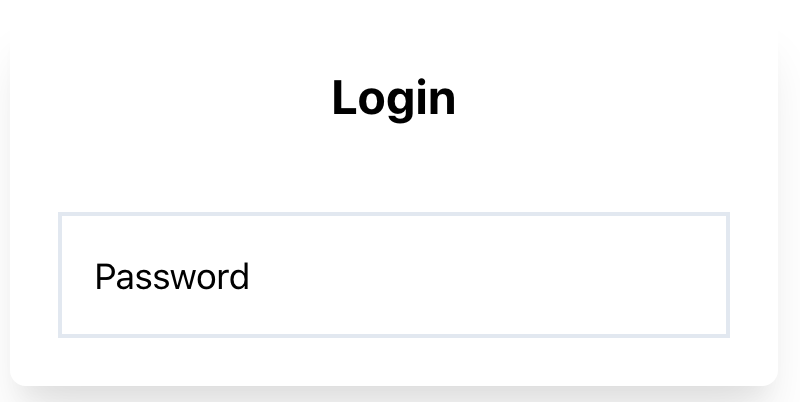
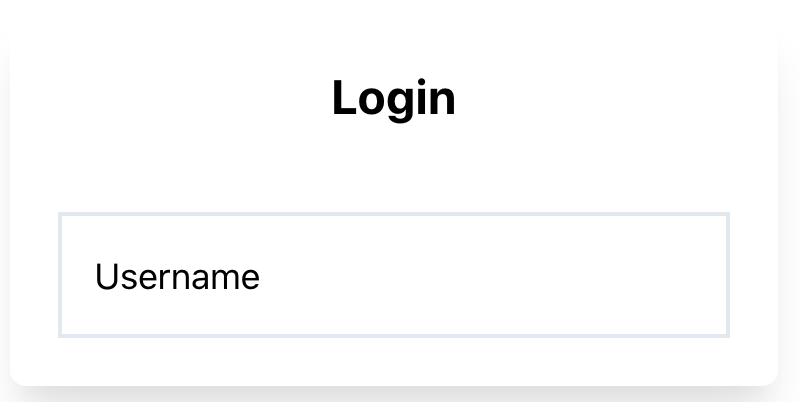
finish up form field

Changed region(s): [[0.125, 0.6567, 0.3438, 0.7164]]

diff --git a/content/blog/floating-form-field-with-tailwindcss.md b/content/blog/floating-form-field-with-tailwindcss.md
@@ -16,6 +16,8 @@ In the following lessons you will learn how to use [Tailwind CSS](https://tailwi
 
 ![Floating Form](assets/img/blog/floating-form-field-with-tailwindcss/floating-form.gif)
 
+You can follow along in a new project or get the [source code](https://github.com/notiz-dev/floating-form-field-tailwindcss) from GitHub.
+
 ## Setup
 
 Let's start in an empty directory and setup up a default `package.json` file using `npm init -y`.
@@ -229,7 +231,7 @@ Now add `origin-0` to the label and finally we have our own floating form field 
 
 ### Building a form
 
-Building a form field by duplicating the floating form field or by extracting the styles with [@apply](https://tailwindcss.com/docs/functions-and-directives/#apply).
+Let's build a form field by duplicating the floating form field or by extracting the styles with [@apply](https://tailwindcss.com/docs/functions-and-directives/#apply).
 
 Add `space-y-{size}` to the form to add margin between your input fields and we can even wrap it in a card.
 
@@ -276,6 +278,69 @@ Look at our outline form field
 
 Try to focus into the field and you notice the label is **not** covering up the outline.
 
-![Floating label not covering the outline](assets/img/blog/floating-form-field-with-tailwindcss/optimized/9-outline-floating-label.png)
+![Floating label not covering the outline](assets/img/blog/floating-form-field-with-tailwindcss/optimized/9-outline-floating-label-below.png)
 
+To make the label cover up the outline we have to customize the floating css applied to the outline form field. Duplicate the custom CSS in your `tailwind.css` and add `.outline` class to both selectors. Add `outline` class to the `div` around your input and label.
+
+```css
+.outline input:focus-within ~ label,
+.outline input:not(:placeholder-shown) ~ label {
+  @apply transform scale-75 -translate-y-6;
+}
+```
+
+We need to update a few styles on the label
+
+- Remove padding top and bottom `py-0`
+- Reduce padding left and right `px-1`
+- Add margin left `ml-3`
+- Reset z-index `z-0`
+
+Also we have to reduce the translate to match the outline.
+
+```css
+.outline input:focus-within ~ label,
+.outline input:not(:placeholder-shown) ~ label {
+  @apply transform scale-75 -translate-y-4 z-0 ml-3 px-1 py-0;
+}
+```
+
+Perfect the label is exactly on the outline, but we still the the line.
+
+![Floating label covers outline with line through](assets/img/blog/floating-form-field-with-tailwindcss/optimized/10-outline-floating-label-with-line-through.png)
+
+To hide the outline set the background of the label to the same background of the container where you show the form field. Here we can add `bg-white` to the label.
+
+```html
+<div class="outline relative border-2 focus-within:border-blue-500">
+  <input type="text" name="username" placeholder=" " class="block p-4 w-full text-lg appearance-none focus:outline-none bg-transparent" />
+  <label for="username" class="absolute top-0 text-lg bg-white p-4 -z-1 duration-300 origin-0">Username</label>
+</div>
+```
+
+Now we have the outline form field working too 👍
+
+### Building a form
+
+Now we can create our form using the outline style.
+
+```html
+<form class="max-w-sm mx-auto rounded-lg shadow-xl overflow-hidden p-6 space-y-10">
+  <h2 class="text-2xl font-bold text-center">Login</h2>
+  <div class="outline relative border-2 focus-within:border-blue-500">
+    <input type="text" name="username" placeholder=" " class="block p-4 w-full text-lg appearance-none focus:outline-none bg-transparent" />
+    <label for="username" class="absolute top-0 text-lg bg-white p-4 -z-1 duration-300 origin-0">Username</label>
+  </div>
+  <div class="outline relative border-2 focus-within:border-blue-500">
+    <input type="email" name="email" placeholder=" " class="block p-4 w-full text-lg appearance-none focus:outline-none bg-transparent" />
+    <label for="email" class="absolute top-0 text-lg bg-white p-4 -z-1 duration-300 origin-0">Email</label>
+  </div>
+  <div class="outline relative border-2 focus-within:border-blue-500">
+    <input type="password" name="password" placeholder=" " class="block p-4 w-full text-lg appearance-none focus:outline-none bg-transparent" />
+    <label for="password" class="absolute top-0 text-lg bg-white p-4 -z-1 duration-300 origin-0">Password</label>
+  </div>
+</form>
+```
+
+![Floating Form](assets/img/blog/floating-form-field-with-tailwindcss/floating-form.gif)
 
